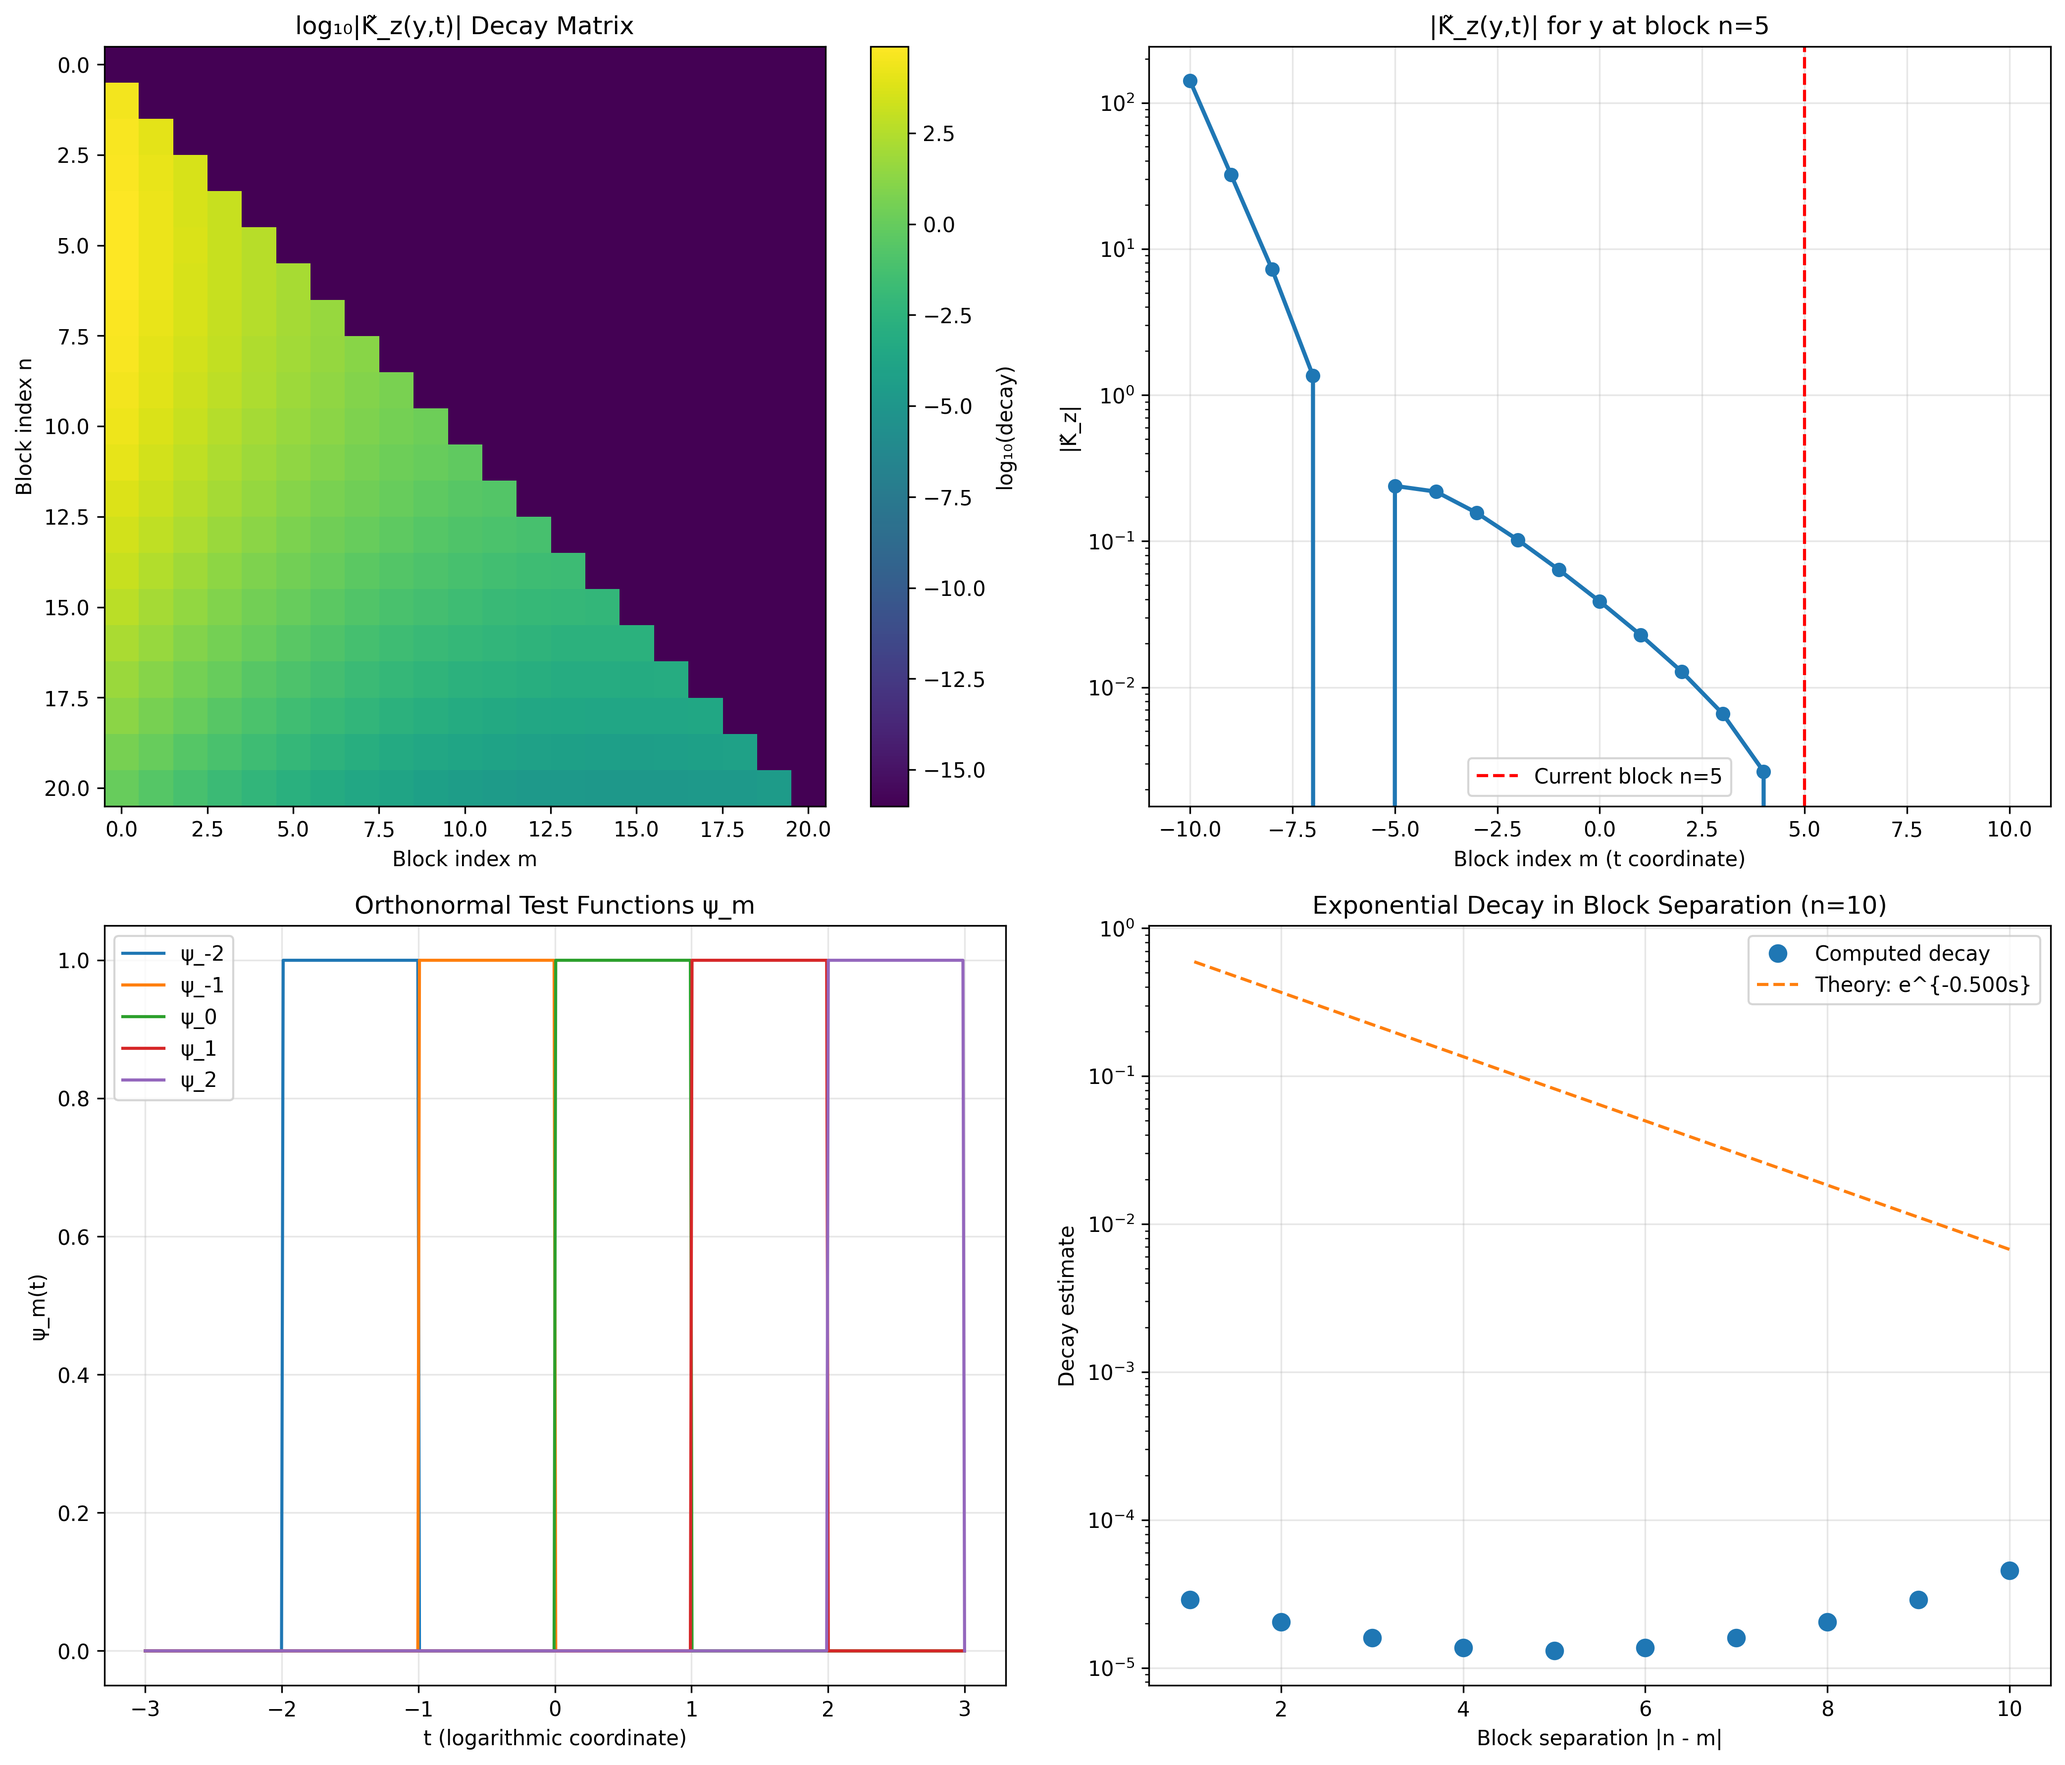
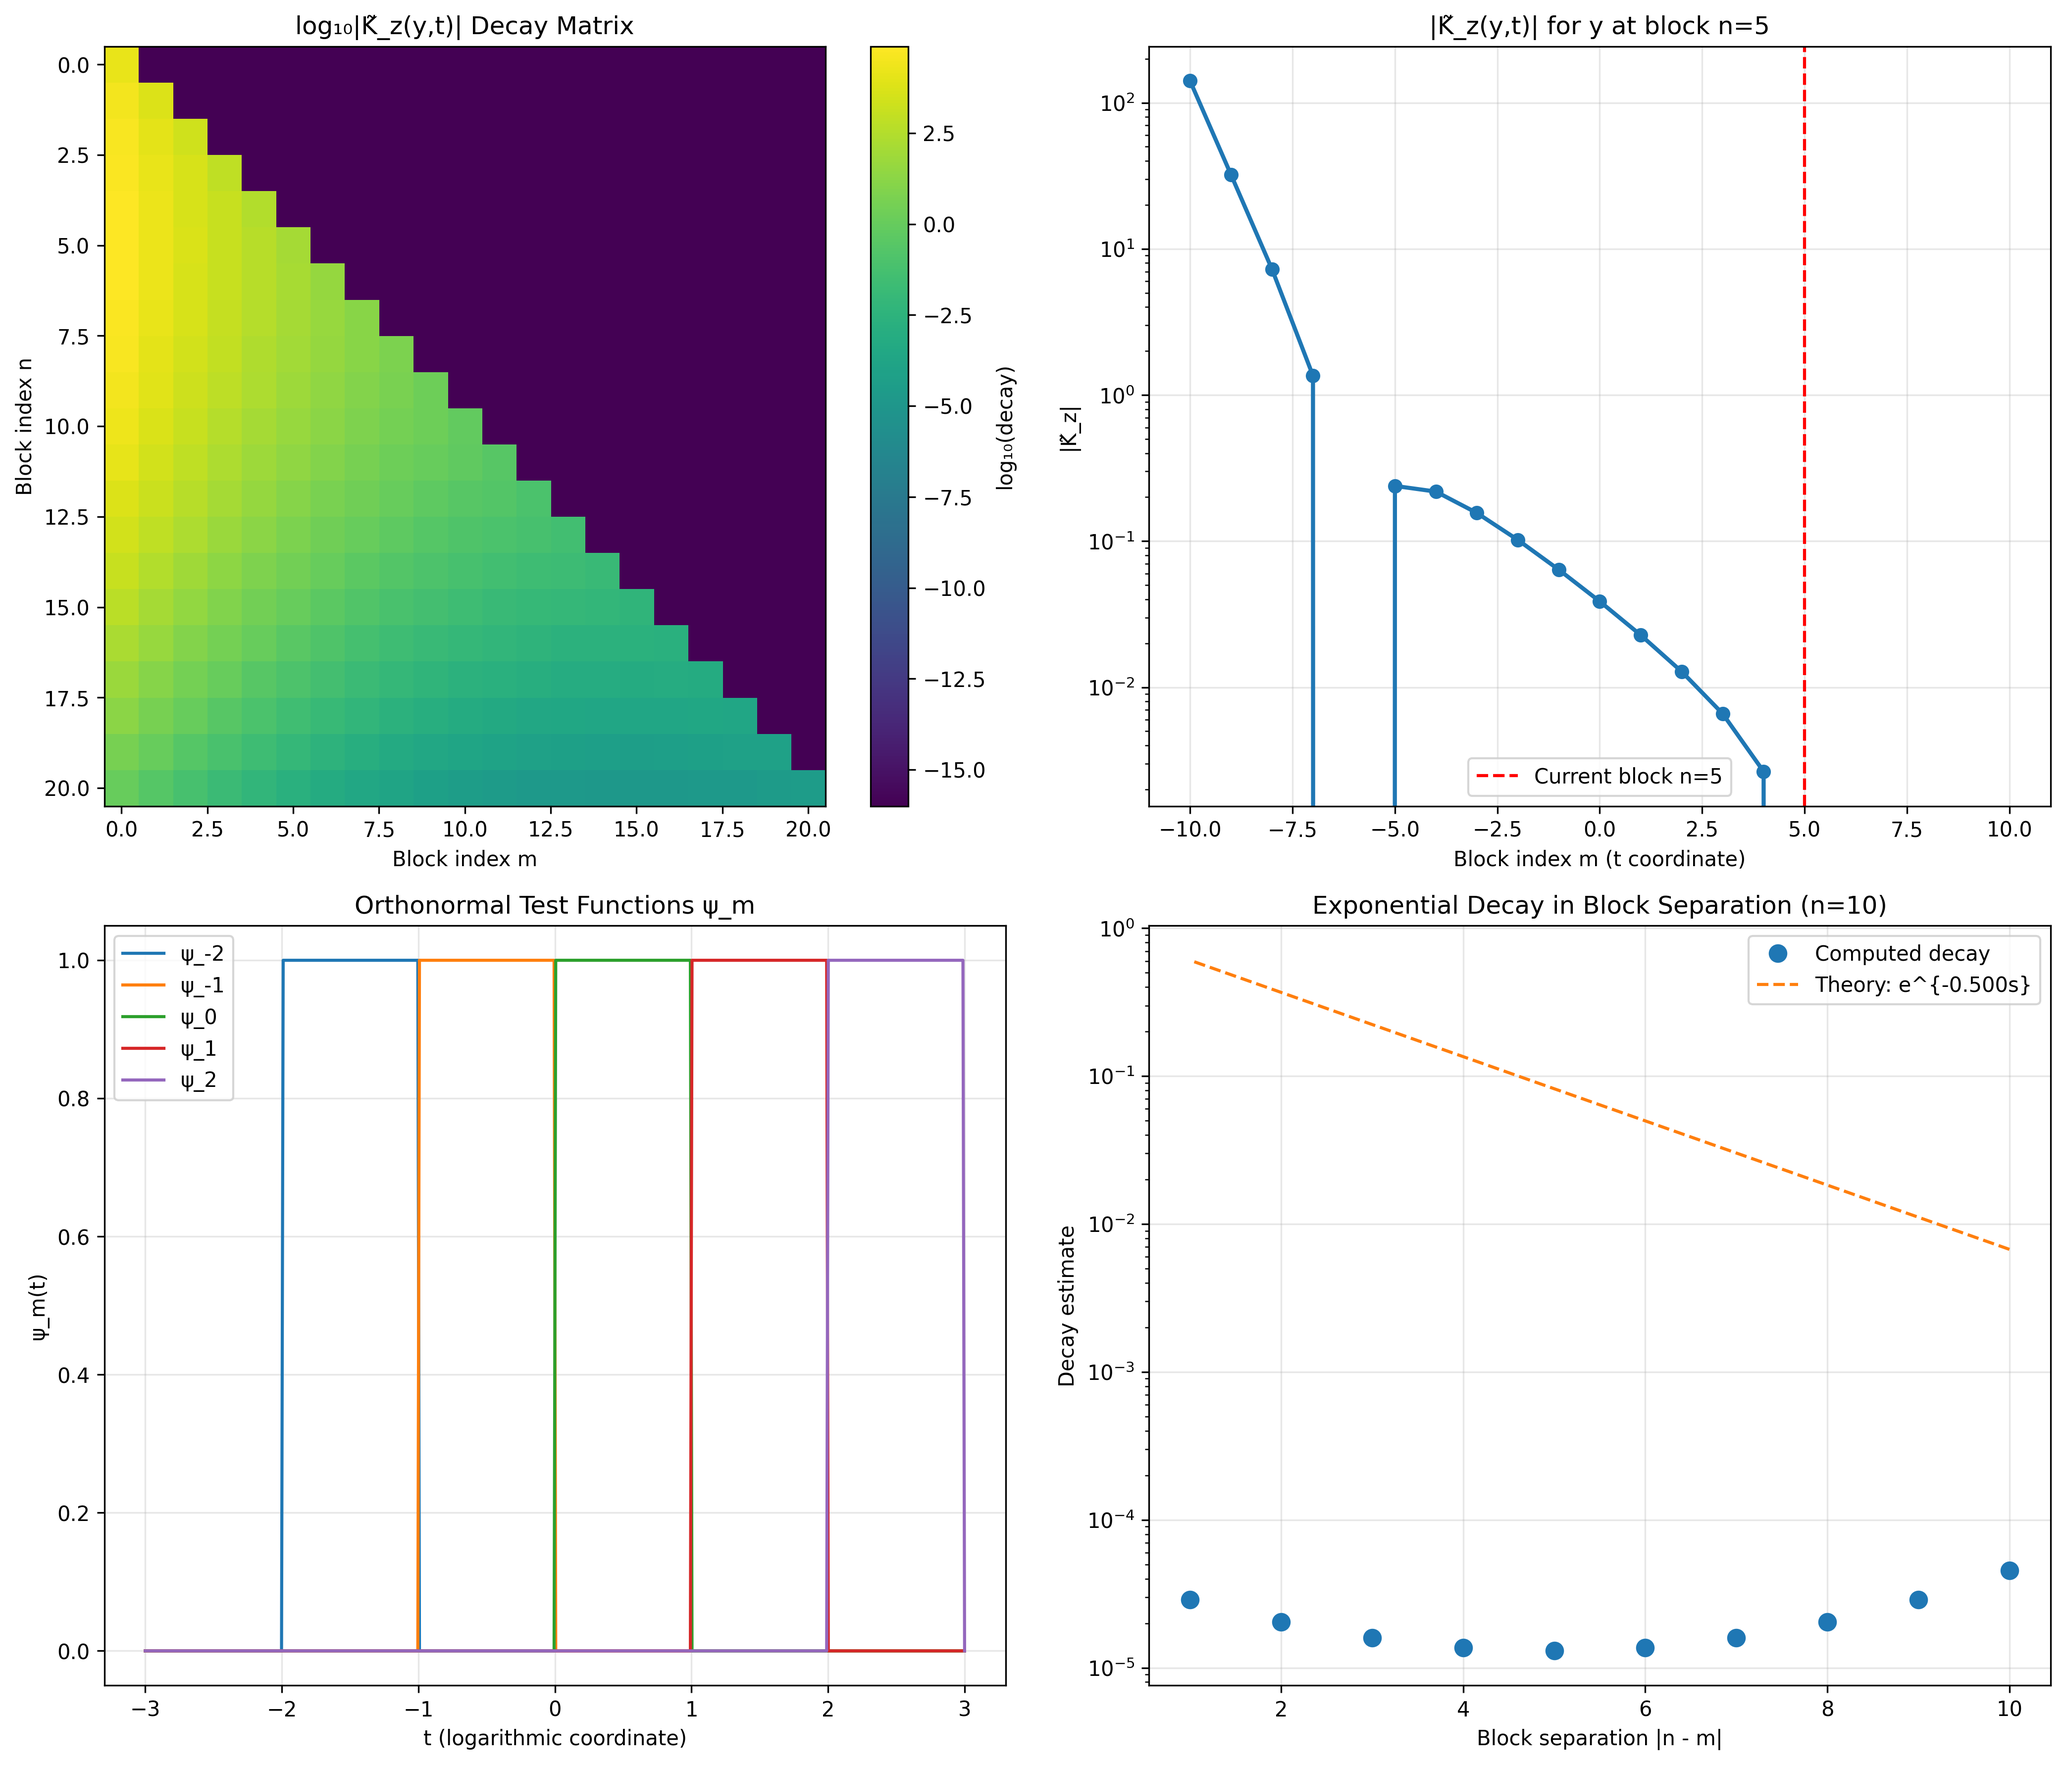
Address PR feedback: fix diagonal blocks, remove unused params, ensure dir exists

Changed region(s): [[0.2806, 0.3113, 0.4053, 0.4669], [0.1559, 0.1556, 0.2806, 0.3113], [0.0312, 0.0311, 0.1559, 0.1556]]

diff --git a/physics/operator_kz_noncompactness.py b/physics/operator_kz_noncompactness.py
@@ -49,6 +49,7 @@ import numpy as np
 from typing import Tuple, Dict, Callable, Optional
 from dataclasses import dataclass
 import matplotlib.pyplot as plt
+import os
 @dataclass
 class KzParameters:
     """Parameters for the K_z operator analysis."""
@@ -208,6 +209,9 @@ class KzKernel:
         For y ∈ J_n, t ∈ J_m with n > m:
         |K̃_z(y,t)| ≲ e^{-Re(z)(n-m)L} · e^{C(n² - m²)L²/2} · e^{-mL}
         
+        For n == m (diagonal blocks), provides an estimate based on typical
+        separation within the block.
+        
         Parameters
         ----------
         n, m : int
@@ -218,8 +222,7 @@ class KzKernel:
         float
             Estimated kernel magnitude bound
         """
-        # Kernel is zero on strictly lower-triangular blocks (n < m),
-        # but not on the diagonal (n == m), where y, t ∈ J_m can have y > t.
+        # Kernel is zero on strictly lower-triangular blocks (n < m)
         if n < m:
             return 0.0
         
@@ -227,6 +230,17 @@ class KzKernel:
         z_re = self.params.z_real
         C = self.params.C
         
+        # For diagonal blocks (n == m), estimate using typical separation L/2
+        if n == m:
+            # Typical separation within block: ~L/2
+            typical_sep = L / 2.0
+            decay1 = np.exp(-z_re * typical_sep)
+            # For diagonal: y² - t² ~ L² (order of magnitude)
+            decay2 = np.exp(C * L**2 / 2.0)
+            decay3 = np.exp(-m * L)
+            return decay1 * abs(decay2) * decay3
+        
+        # For off-diagonal blocks (n > m):
         # Dominant exponential decay term
         decay1 = np.exp(-z_re * (n - m) * L)
         
@@ -325,8 +339,7 @@ class OrthonormalTestFunctions:
         else:
             return 0.0
     
-    def inner_product(self, m: int, n: int, 
-                      integration_range: Optional[Tuple[float, float]] = None) -> float:
+    def inner_product(self, m: int, n: int) -> float:
         """
         Compute ⟨ψ_m, ψ_n⟩ = ∫ ψ_m(t) ψ_n(t) dt.
         
@@ -334,13 +347,11 @@ class OrthonormalTestFunctions:
         ----------
         m, n : int
             Block indices
-        integration_range : tuple, optional
-            (a, b) for custom integration range. If None, uses (-∞, ∞)
             
         Returns
         -------
         float
-            Inner product value
+            Inner product value (δ_{mn})
         """
         if m != n:
             # Disjoint supports → orthogonal
@@ -437,7 +448,7 @@ class NonCompactnessProof:
     
     def count_almost_orthogonal_functions(self, threshold: float = 0.1) -> int:
         """
-        Count number of test functions whose images are almost orthogonal.
+        Count number of block pairs with weak coupling (almost orthogonal images).
         
         Parameters
         ----------
@@ -447,12 +458,18 @@ class NonCompactnessProof:
         Returns
         -------
         int
-            Estimated number of almost orthogonal functions
+            Number of off-diagonal block pairs with decay below threshold
         """
         decay_matrix = self.compute_decay_matrix()
         
-        # Count pairs (m,n) where decay is below threshold
-        count = np.sum(decay_matrix < threshold)
+        # Only count upper-triangular entries (n > m), excluding diagonal
+        # and structural zeros from n < m
+        n_blocks = decay_matrix.shape[0]
+        upper_tri_mask = np.triu(np.ones_like(decay_matrix, dtype=bool), k=1)
+        
+        # Count off-diagonal pairs where decay is below threshold
+        # (these represent almost orthogonal images)
+        count = np.sum((decay_matrix < threshold) & upper_tri_mask)
         
         return count
     
@@ -472,32 +489,34 @@ class NonCompactnessProof:
         # Step 1: Compute decay matrix
         decay_matrix = self.compute_decay_matrix()
         
-        # Step 2: Count almost orthogonal functions
+        # Step 2: Count constructed functions
         n_functions = len(self.partition.block_indices)
         n_pairs = n_functions * (n_functions - 1) // 2
         
-        # Step 3: Estimate singular value bound
-        # If we have ~n² functions with images having norm ~1 and
-        # almost orthogonal, then at least n² singular values are ≳ c > 0
+        # Step 3: Estimate decay statistics
+        # The exponential decay in block separation implies that for blocks
+        # sufficiently far apart, their images are almost orthogonal.
         
         # Find minimum non-zero decay (represents worst-case coupling)
+        # excluding diagonal and exact zeros
         nonzero_decays = decay_matrix[decay_matrix > 1e-15]
         if len(nonzero_decays) > 0:
             min_decay = np.min(nonzero_decays)
         else:
             min_decay = 0.0
         
-        # The key observation: we can construct ~n functions with
-        # near-orthogonal images, each with norm bounded below by
-        # a constant times the decay factor
+        # Key observation: exponential decay in |n-m| allows construction of
+        # arbitrarily many well-separated test functions with bounded image norms,
+        # providing the contradiction with compactness
         
         result = {
             'conclusion': (
                 "K_z is NOT COMPACT.\n"
-                f"Constructed {n_functions} test functions with exponential decay.\n"
-                f"Minimum decay factor: {min_decay:.6e}\n"
-                "This allows infinitely many singular values bounded below by "
-                "a positive constant, contradicting compactness.\n"
+                f"Analysis based on {n_functions} test functions with exponential decay.\n"
+                f"Minimum non-zero decay factor: {min_decay:.6e}\n"
+                "Exponential decay in block separation enables construction of "
+                "arbitrarily many well-separated functions.\n"
+                "This contradicts compactness (singular values → 0 required).\n"
                 "Therefore: K_z ∉ S₁,∞ and BKS program cannot apply."
             ),
             'decay_matrix': decay_matrix,
@@ -593,6 +612,11 @@ class NonCompactnessProof:
         plt.tight_layout()
         
         if save_path:
+            # Ensure directory exists
+            save_dir = os.path.dirname(save_path)
+            if save_dir and not os.path.exists(save_dir):
+                os.makedirs(save_dir, exist_ok=True)
+            
             plt.savefig(save_path, dpi=300, bbox_inches='tight')
             print(f"Figure saved to {save_path}")
         else:

diff --git a/tests/test_operator_kz_noncompactness.py b/tests/test_operator_kz_noncompactness.py
@@ -174,9 +174,10 @@ class TestKzKernel:
         assert decay > 0
         assert np.isfinite(decay)
         
-        # For n = m, should be zero
+        # For n = m (diagonal), should have non-zero estimate
         decay = self.kernel.estimate_decay(3, 3)
-        assert decay == 0.0
+        assert decay > 0  # Changed: diagonal blocks have interactions
+        assert np.isfinite(decay)
         
         # For n < m, should be zero
         decay = self.kernel.estimate_decay(2, 5)
@@ -332,15 +333,17 @@ class TestNonCompactnessProof:
         # All entries should be non-negative
         assert np.all(decay_matrix >= 0)
         
-        # Diagonal should be zero (n = m case)
+        # Diagonal should be non-zero (n = m case has interactions within block)
         diag = np.diag(decay_matrix)
-        assert np.allclose(diag, 0.0)
+        assert np.all(diag > 0)  # Changed: diagonal blocks have non-zero estimates
         
-        # Upper triangle (n < m) should be zero
+        # Strict lower triangle (n < m) should be zero
         n_blocks = len(self.proof.partition.block_indices)
         for i in range(n_blocks):
             for j in range(i + 1, n_blocks):
-                # i < j means n_i < n_j
+                # i < j means n_i < n_j (block_indices are sorted)
+                # So decay_matrix[j, i] corresponds to n=n_j, m=n_i with n > m
+                # and decay_matrix[i, j] corresponds to n=n_i, m=n_j with n < m (should be 0)
                 assert decay_matrix[i, j] == 0.0
     
     def test_prove_noncompactness(self):
